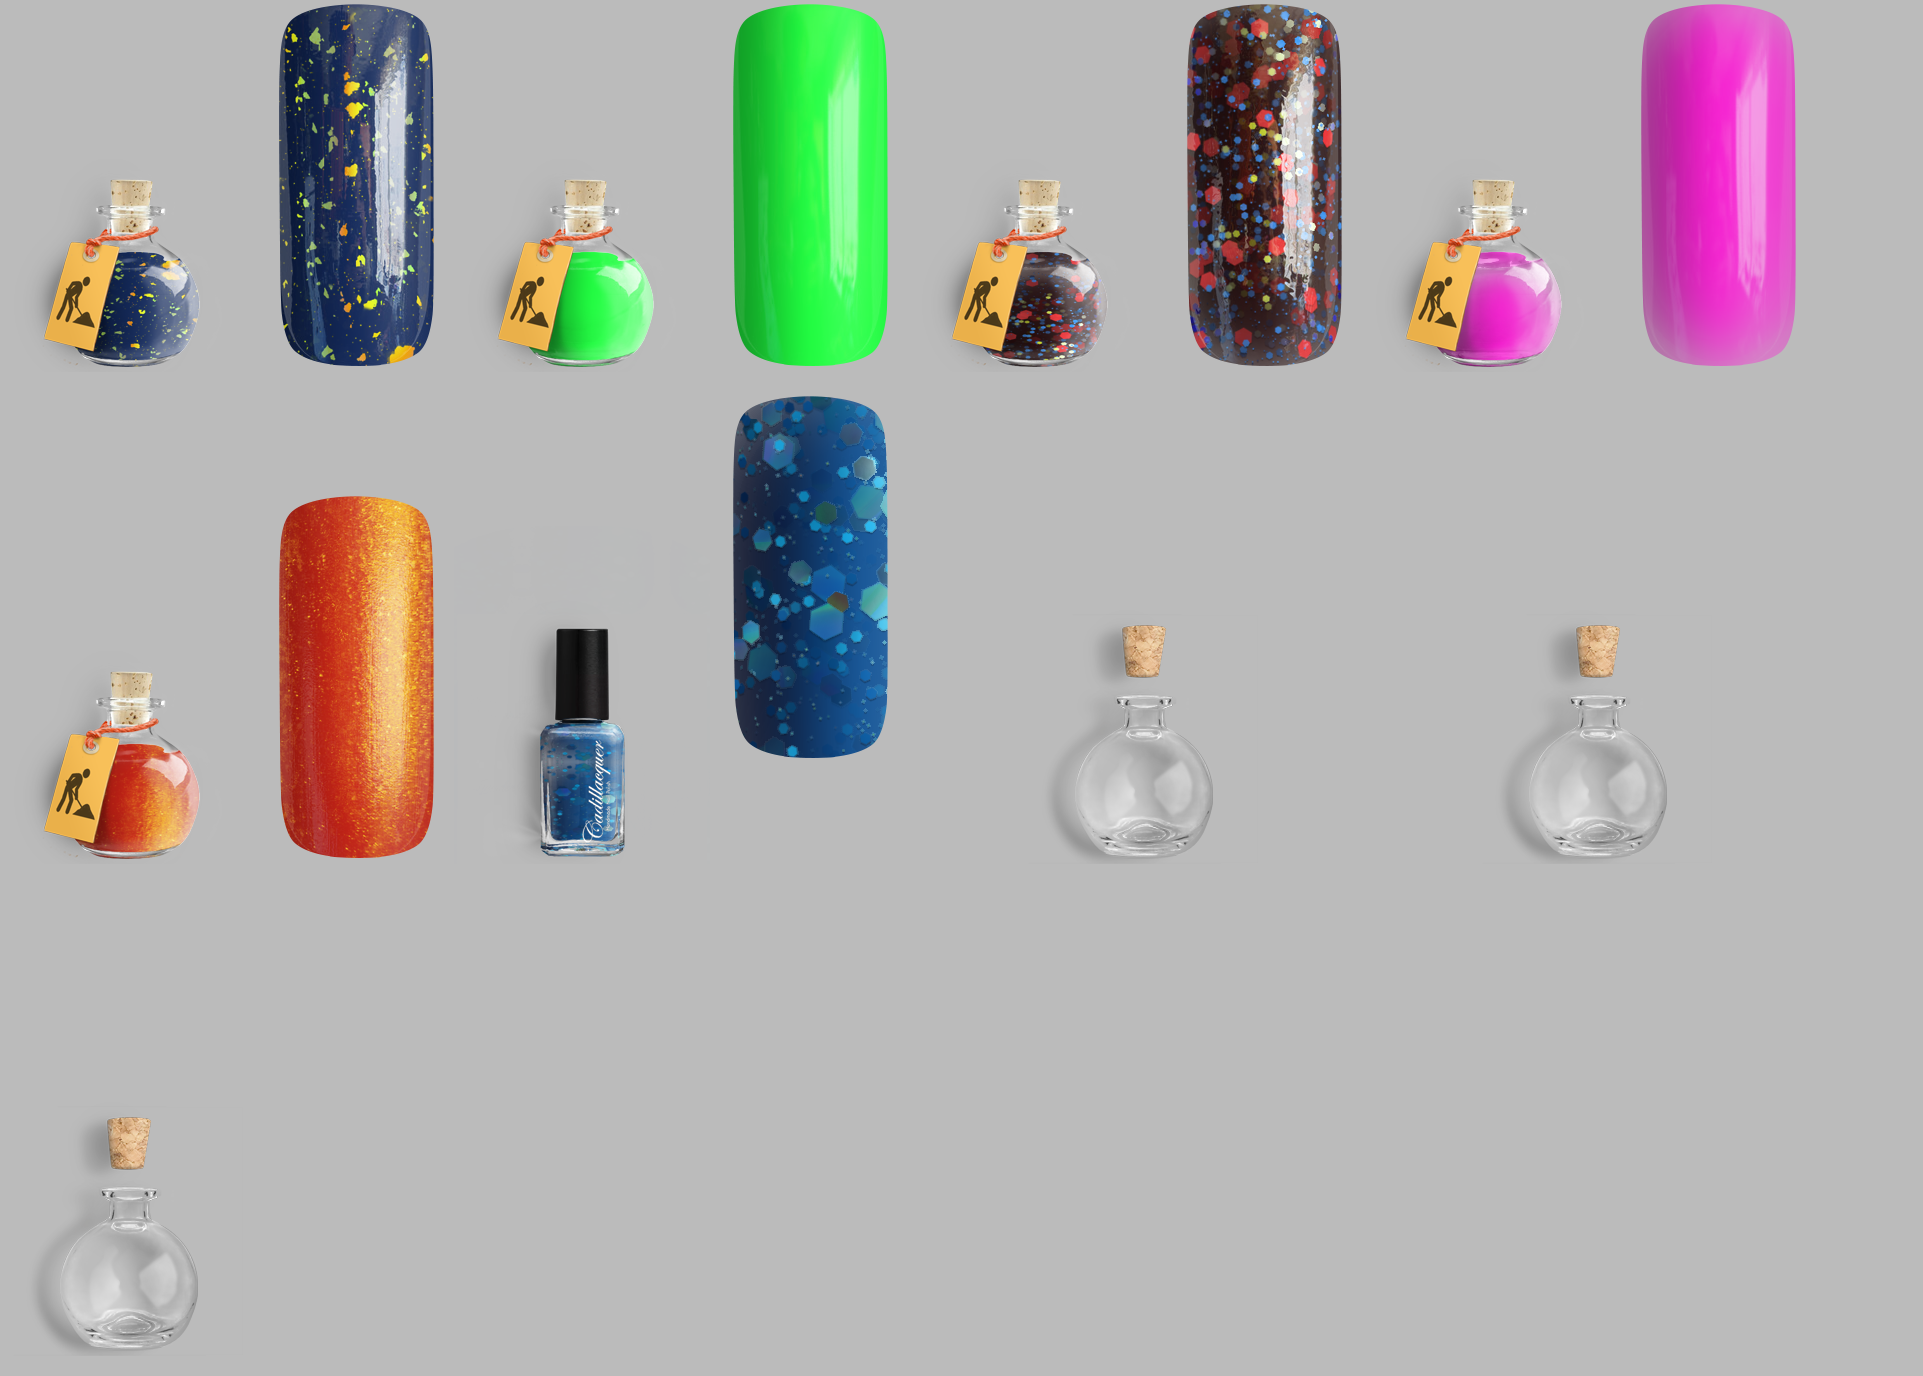
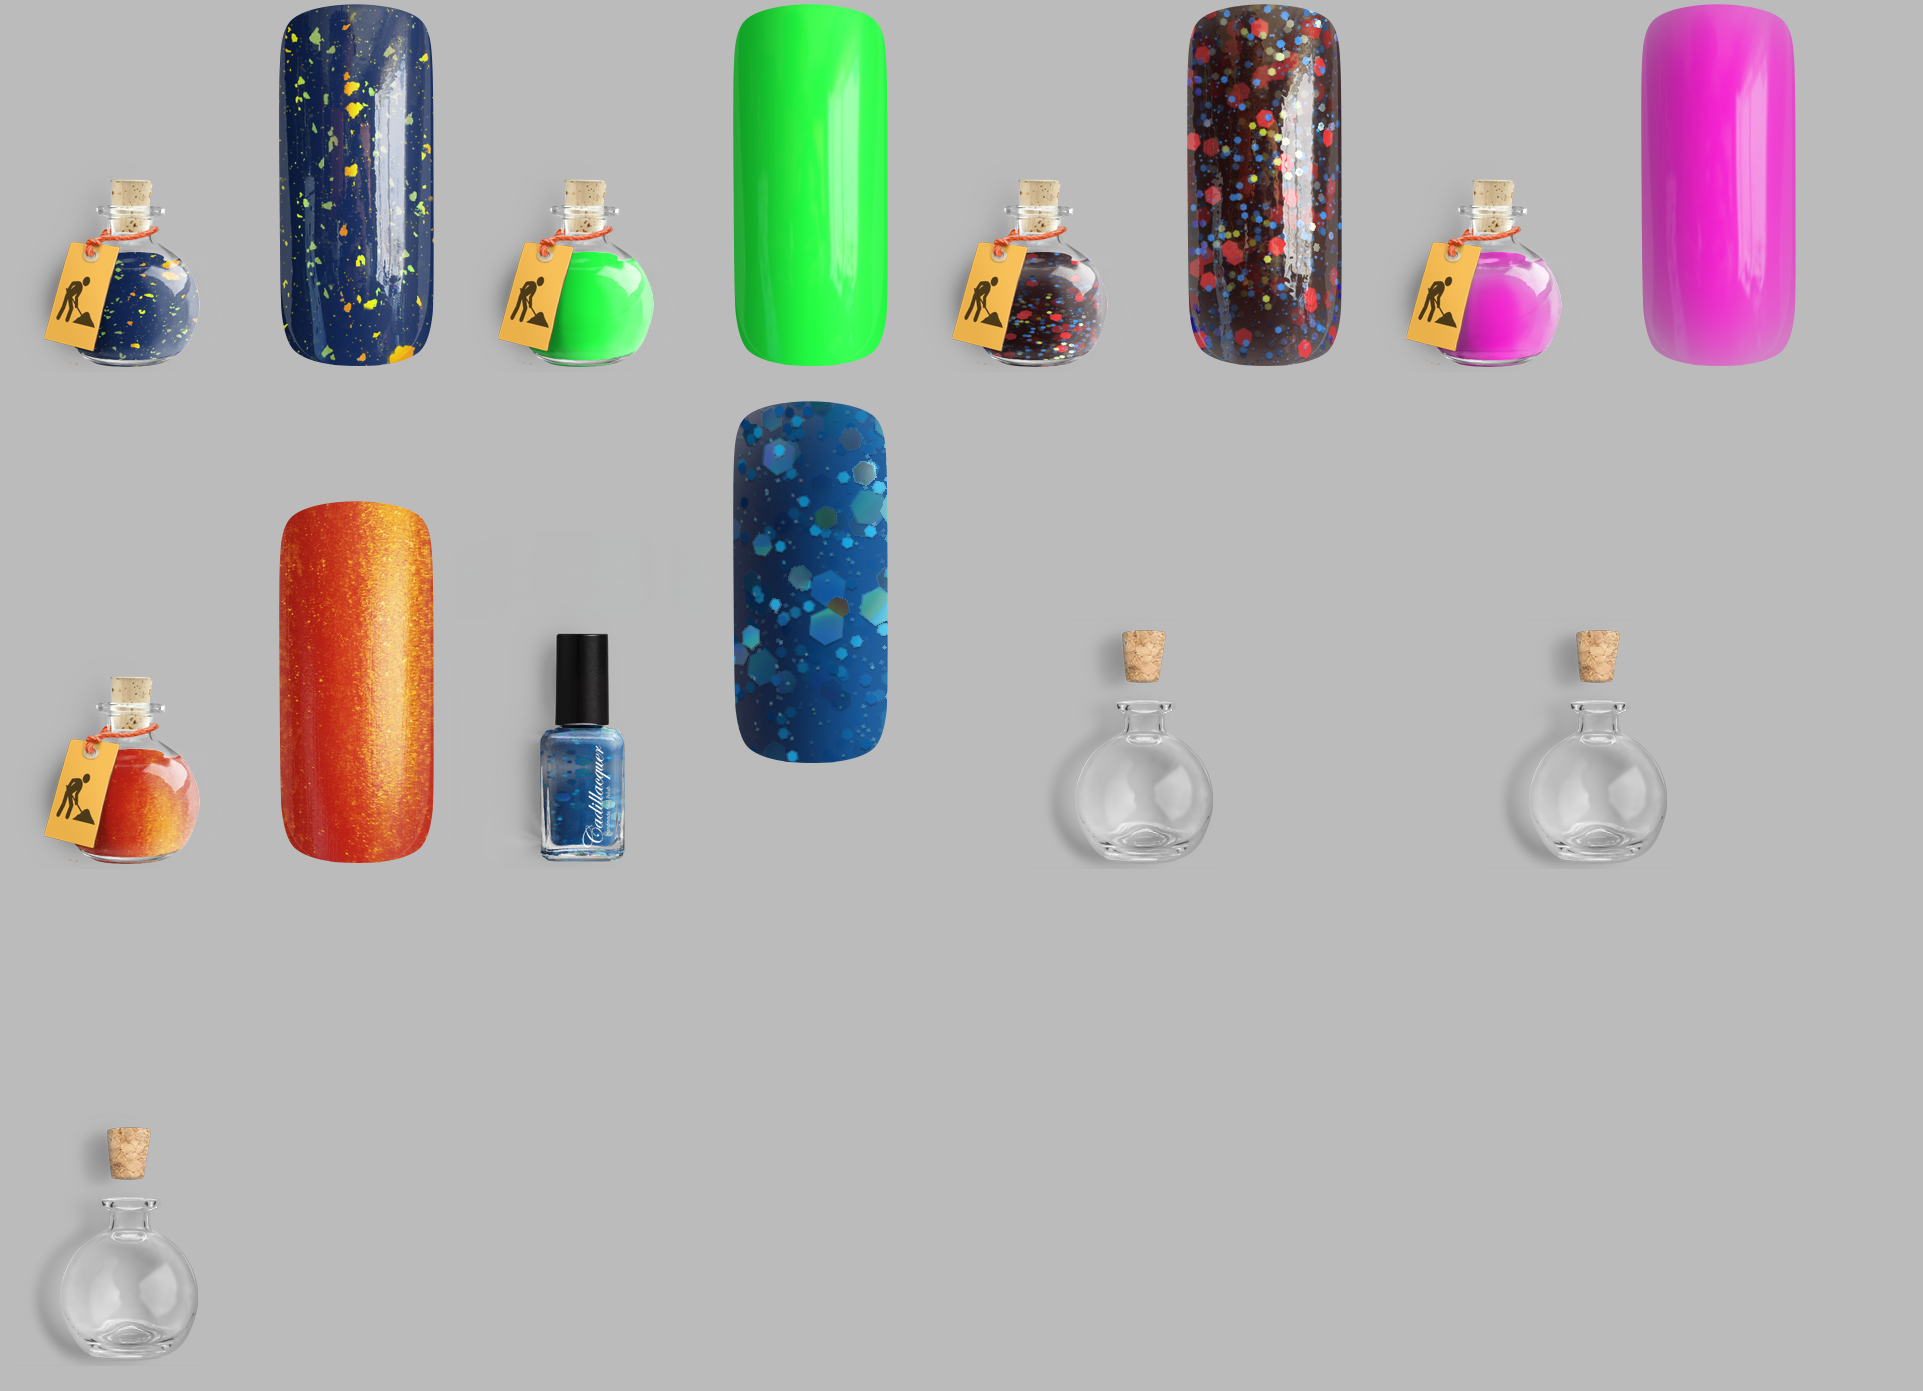
pango debug

diff --git a/app/models/box.rb b/app/models/box.rb
@@ -73,7 +73,7 @@ class Box < ActiveRecord::Base
       if ((i + 1).modulo(columns) == 0 ) || i == (polishes.size - 1)
         stack += " +append -background '#{bg}' -alpha remove"
         Magick.convert('', stack, "/output_#{(i / columns).to_i}.png")
-        rows += path + "/output_#{(i / columns).to_i}.png \\( -size 198x10 canvas:#{bg} \\) -append  "
+        rows += path + "/output_#{(i / columns).to_i}.png \\( -size 198x15 canvas:#{bg} \\) -append  "
         stack = " -background '#{bg}'"
       elsif i.modulo(columns) != 0
         stack += ' +append'
